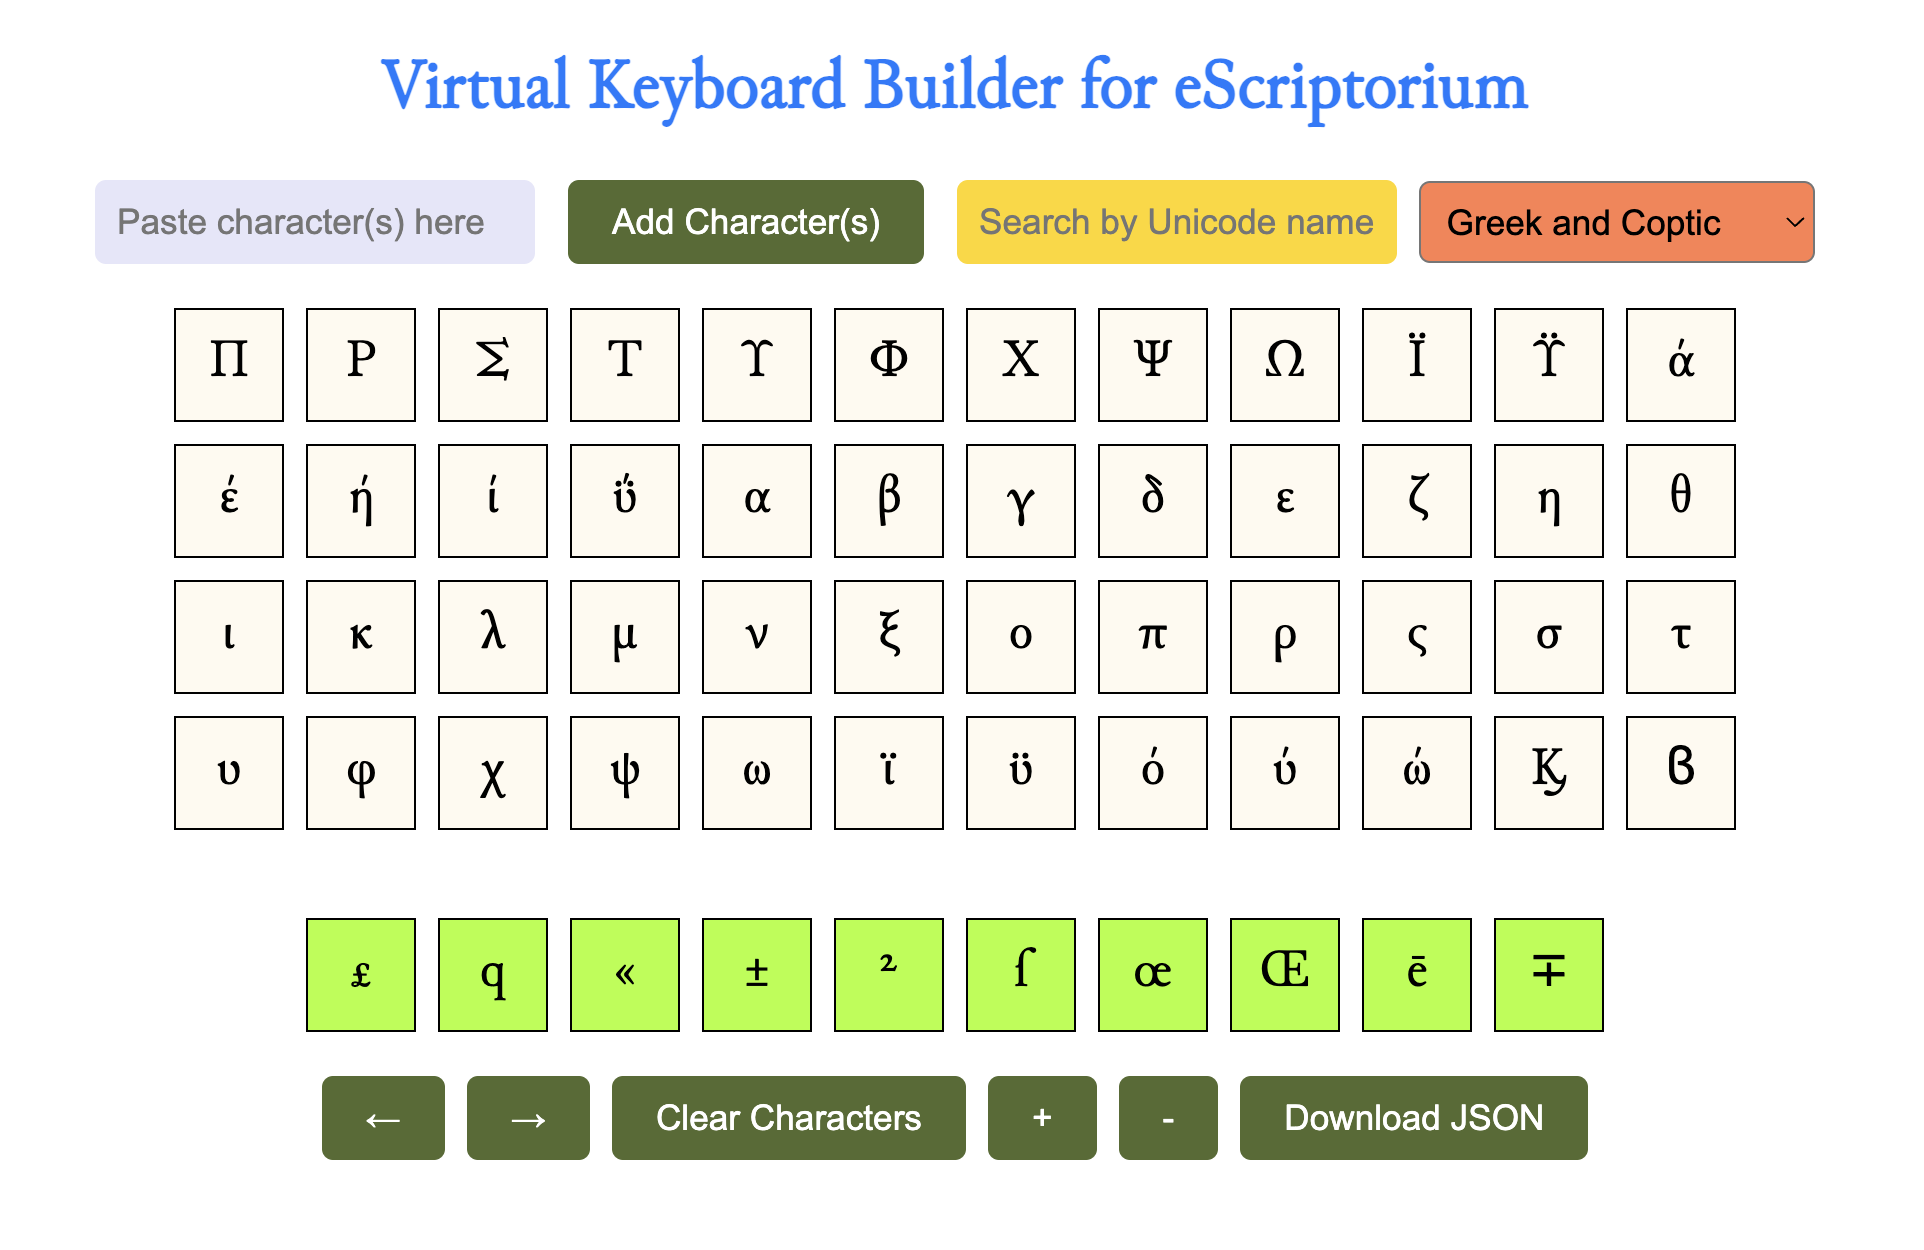
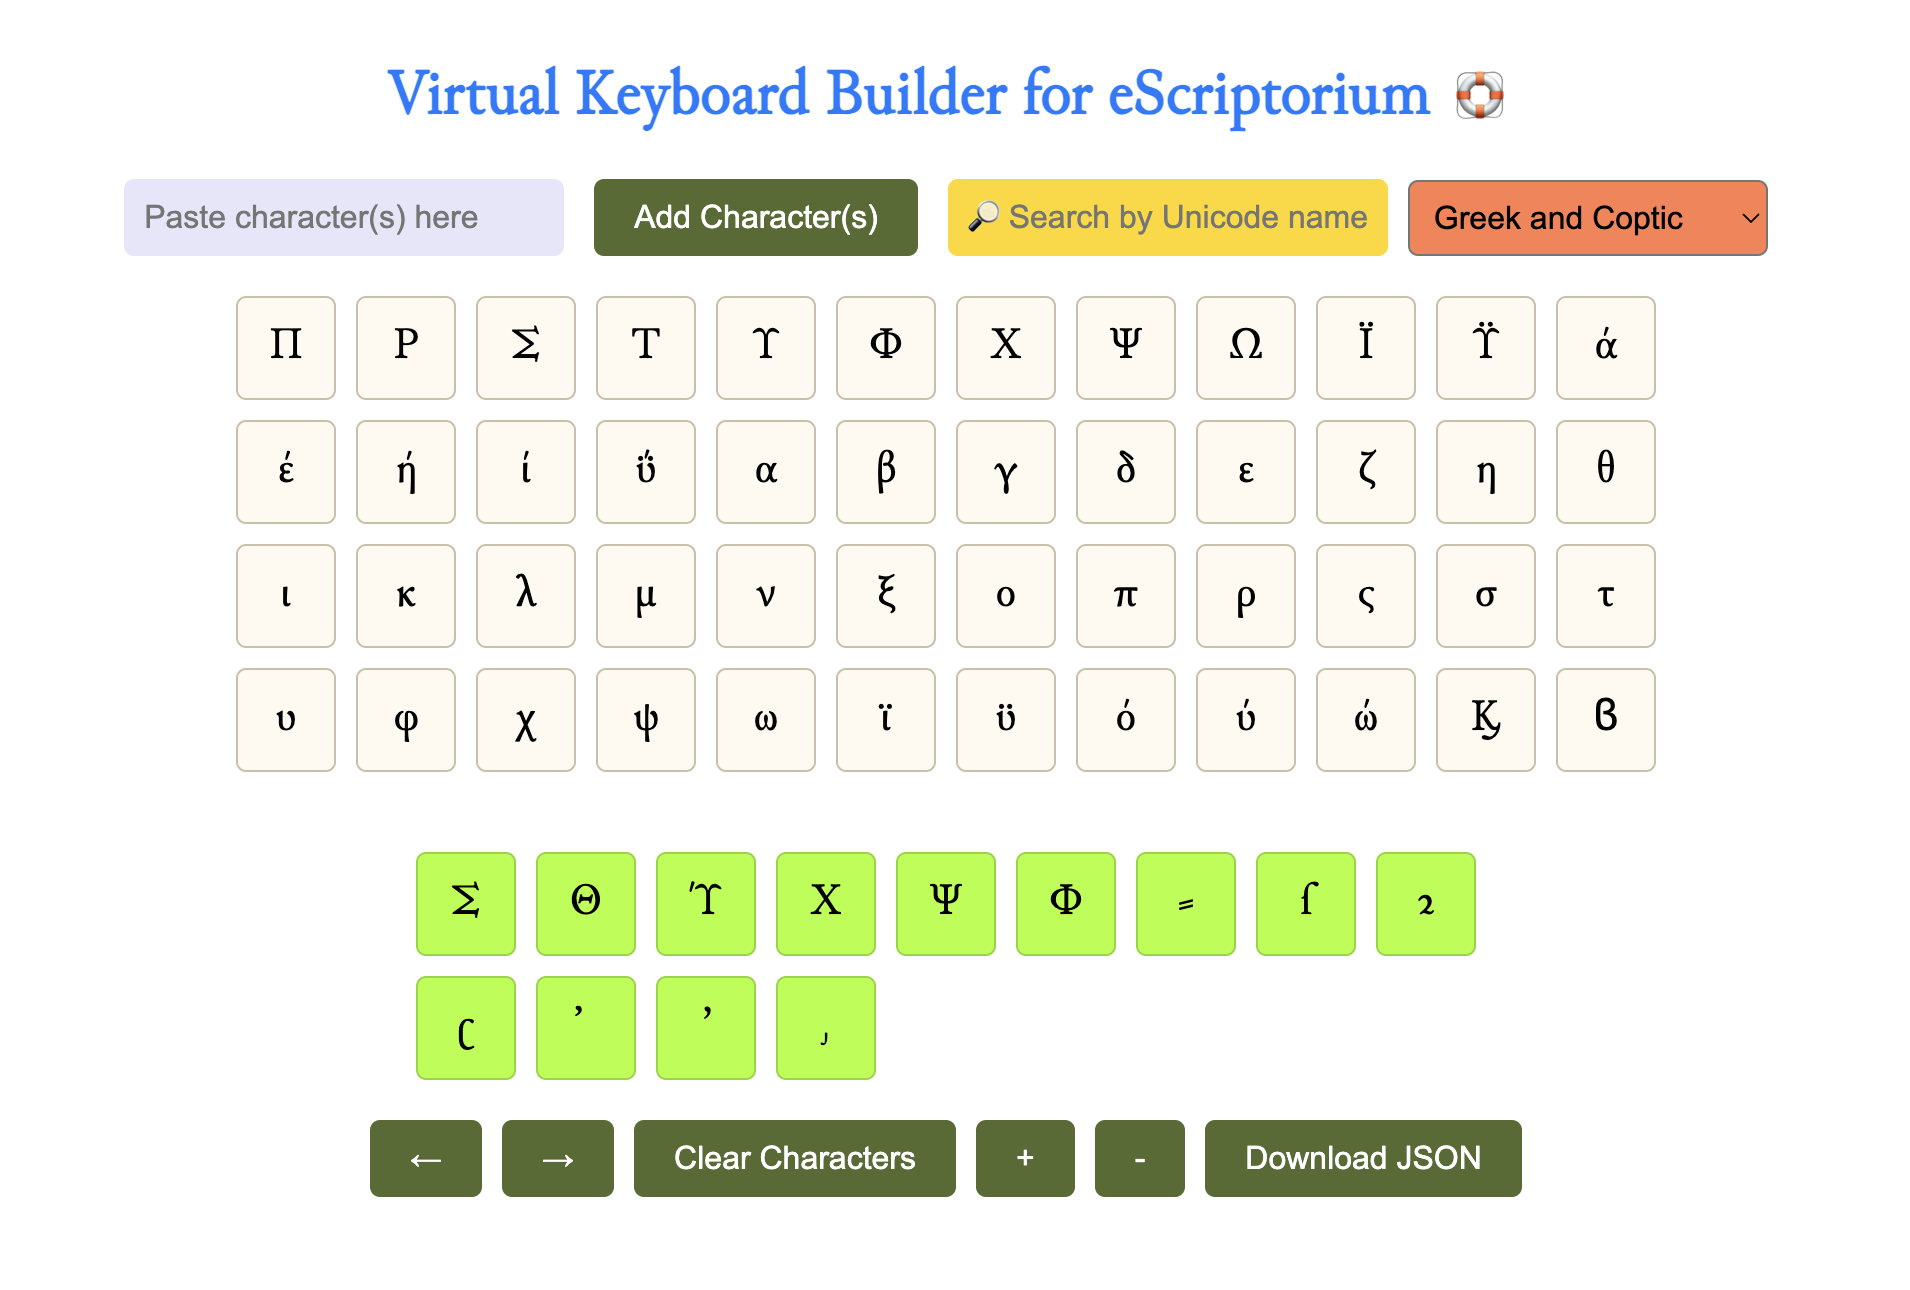
Enhance CSS

diff --git a/templates/index.html b/templates/index.html
@@ -53,16 +53,28 @@
 
         .character-cell {
             font-family: 'Junicode2', Arial, sans-serif;
-            border: 1px solid #000;
+            border: 1px solid rgb(203, 192, 170);
             background-color:floralwhite;
             text-align: center;
             line-height: 50px;
             cursor: pointer;
-            font-size: 24px;
+            font-size: 22px;
+            border-radius: 5px;
+        }
+
+        .character-cell:hover {
+            border: 1px solid rgb(203, 192, 170);
+            background-color:rgb(248, 233, 201);
         }
 
         .selected-character {
             background-color:greenyellow;
+            border: 1px solid rgb(142, 212, 38);
+        }
+
+        .selected-character:hover {
+            background-color:rgb(134, 223, 1);
+            border: 1px solid rgb(142, 212, 38);
         }
 
         .button {
@@ -75,6 +87,11 @@
             border-radius: 5px;
             margin-right: 5px;
             margin-left: 5px;
+        }
+
+        .button:hover {
+            background-color:rgb(57, 75, 26);
+            color: white;
         }
 
         .button-container {
@@ -103,7 +120,7 @@
             color: #000000a4;
             padding: 10px;
             font-size: 16px;
-            width: 180px;
+            width: 200px;
             border-radius: 5px;
             background-color:lavender;
             border: 0;
@@ -112,7 +129,7 @@
         .search-field {
             padding: 10px;
             font-size: 16px;
-            width: 180px;
+            width: 200px;
             border-radius: 5px;
             background-color:gold;
             border: 0;
@@ -156,17 +173,26 @@
             z-index: 1000; 
         }
 
+        .help-link {
+            font-family: 'Junicode2', Arial, sans-serif;
+            font-size: 24px;
+            display: inline-block;
+            margin-left: 5px;
+            cursor: pointer;
+            color: blue;
+        }
+
         .expandable-text {
             margin-bottom: 20px;
-            text-align: center; /* Center the text summary */
+            text-align: center;
         }
 
         .expandable-text-summary {
             margin-top: 20px;
             font-weight: bold;
-            cursor: pointer;
             font-size: 32px;
             color: #007BFF;
+            position: inline-block;
         }
 
         .expandable-text-content {
@@ -174,7 +200,7 @@
             line-height: 18pt;
             font-size: 15px;
             display: none;
-            max-width: 620px;
+            max-width: 700px;
             margin-top: 10px;
             margin-left: auto;
             margin-right: auto;
@@ -182,14 +208,23 @@
         }
 
         .expandable-text.open .expandable-text-content {
-            display:block;
+            display: block;
+            position: absolute;
+            background: white;
+            border: 1px solid lightgray;
+            z-index: 1000;
+            margin-left: 30px;
+            padding: 20px;
         }
     </style>
 </head>
 <body>
     <div class="content-container">
         <div class="expandable-text" id="readme">
-            <div class="expandable-text-summary" onclick="toggleReadme()">Virtual Keyboard Builder for eScriptorium</div>
+            <div class="expandable-text-summary"
+                <h1>Virtual Keyboard Builder for eScriptorium</h1>
+                <div class="help-link" onclick="toggleReadme()">🛟</div>
+            </div>
             <div class="expandable-text-content">
                 <p>
                     This app allows you to build virtual keyboards for <a href="https://en.wikipedia.org/wiki/EScriptorium" target="_blank">eScriptorium</a>.<br><br>
@@ -212,7 +247,7 @@
             <div class="input-container">
                 <input type="text" id="char-input" class="match-field" placeholder="Paste character(s) here">
                 <button class="button" onclick="matchCharacter()">Add Character(s)</button>
-                <input type="text" id="name-input" class="search-field" placeholder="Search by Unicode name" oninput="liveSearchUnicodeName()">
+                <input type="text" id="name-input" class="search-field" placeholder="🔎 Search by Unicode name" oninput="liveSearchUnicodeName()">
                 <div id="suggestions"></div>
                 <div class="dropdown-container">
                     <select id="category-select" class="category-dropdown" onchange="filterByCategory()"></select>
@@ -366,20 +401,32 @@
                 }).then(response => response.json())
                 .then(data => {
                     if (data.status === 'success') {
-                        // After recalculating, proceed to download the JSON
-                        fetch('/download_characters')
-                            .then(response => response.json())
-                            .then(data => {
-                                const blob = new Blob([JSON.stringify(data, null, 2)], { type: 'application/json' });
-                                const url = URL.createObjectURL(blob);
-                                const a = document.createElement('a');
-                                a.href = url;
-                                a.download = 'my_keyboard.json';
-                                document.body.appendChild(a);
-                                a.click();
-                                document.body.removeChild(a);
-                                URL.revokeObjectURL(url);
-                            });
+                        // Prompt the user for a keyboard name
+                        let keyboardName = prompt("Please enter a name for your keyboard:", "my_keyboard");
+                        if (keyboardName === null || keyboardName.trim() === "") {
+                            keyboardName = "my_keyboard"; // Default name if the user cancels or leaves it empty
+                        }
+
+                        // After recalculating, send the name and proceed to download the JSON
+                        fetch('/download_characters', {
+                            method: 'POST',
+                            headers: {
+                                'Content-Type': 'application/json'
+                            },
+                            body: JSON.stringify({ keyboard_name: keyboardName })
+                        })
+                        .then(response => response.json())
+                        .then(data => {
+                            const blob = new Blob([JSON.stringify(data, null, 2)], { type: 'application/json' });
+                            const url = URL.createObjectURL(blob);
+                            const a = document.createElement('a');
+                            a.href = url;
+                            a.download = `${keyboardName}.json`;
+                            document.body.appendChild(a);
+                            a.click();
+                            document.body.removeChild(a);
+                            URL.revokeObjectURL(url);
+                        });
                     }
                 });
             }

diff --git a/keyboardBuilder4eS.py b/keyboardBuilder4eS.py
@@ -379,16 +379,19 @@ def recalculate_rows_columns():
 
     return jsonify({"status": "success"})
 
-@app.route('/download_characters', methods=['GET'])
+@app.route('/download_characters', methods=['POST'])
 def download_characters():
+    data = request.json
+    keyboard_name = data.get('keyboard_name', 'my_keyboard')  # Get the keyboard name from the request
     custom_characters = session.get('custom_characters', [])
-    json_data = {
+
+    response = {
         "version": "0.1",
-        "name": "my_keyboard",
         "author": "Virtual Keyboard Builder for eScriptorium v0.1",
+        "name": keyboard_name,  # Include the keyboard name in the response
         "characters": custom_characters
-        }
-    return jsonify(json_data)
+    }
+    return jsonify(response)
 
 if __name__ == '__main__':
     app.run(debug=True)
